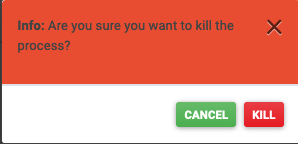
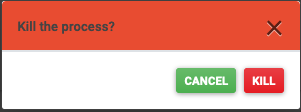
Reduced modal headers.
Yellow Rice and black beans for lunch.

diff --git a/templates/stats.html b/templates/stats.html
@@ -29,8 +29,8 @@
       <div class="modal-content">
       
         <!-- Modal Header -->
-        <div class="modal-header" style="background-color: #e84c31;>
-          <h4 class="modal-title"><p><strong>Warning!</strong> Are you sure you want to restart?</p></h4>
+        <div class="modal-header" style="background-color: #e84c31;height: 50px;">
+          <h6 class="modal-title"><p><strong>Warning!</strong> Are you sure you want to restart?</p></h6>
           <button type="button" class="close" data-dismiss="modal">&times;</button>
         </div>
         
@@ -57,8 +57,8 @@
       <div class="modal-content">
       
         <!-- Modal Header -->
-        <div class="modal-header" style="background-color: #f0ad4e;>
-          <h4 class="modal-title"><p><strong>Info:</strong> Are you sure?</p></h4>
+        <div class="modal-header" style="background-color: #f0ad4e;height: 50px;">
+          <h6 class="modal-title"><p><strong>Info:</strong> Are you sure?</p></h6>
           <button type="button" class="close" data-dismiss="modal">&times;</button>
         </div>
         
@@ -80,8 +80,8 @@
       <div class="modal-content">
       
         <!-- Modal Header -->
-        <div class="modal-header" style="background-color: #5cb85c;>
-          <h4 class="modal-title"><p><strong>Info:</strong> Are you sure?</p></h4>
+        <div class="modal-header" style="background-color: #5cb85c;height: 50px;">
+          <h6 class="modal-title"><p><strong>Info:</strong> Are you sure?</p></h6>
           <button type="button" class="close" data-dismiss="modal">&times;</button>
         </div>
         
@@ -103,8 +103,8 @@
       <div class="modal-content">
       
         <!-- Modal Header -->
-        <div class="modal-header" style="background-color: #e84c31;>
-          <h4 class="modal-title"><p><strong>Info:</strong> Are you sure you want to kill the process?</p></h4>
+        <div class="modal-header" style="background-color: #e84c31; height: 50px;">
+          <h6 class="modal-title"><p>Kill the process?</p></h6>
           <button type="button" class="close" data-dismiss="modal">&times;</button>
         </div>
         
